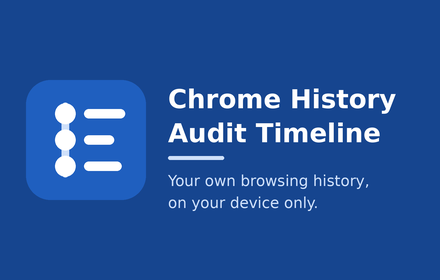
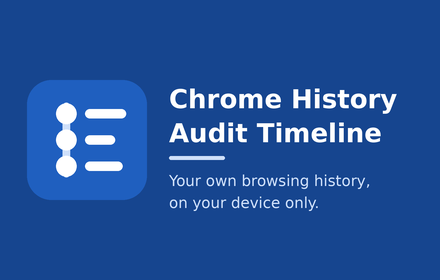
docs(store): add 1400x560 marquee from the same generator

diff --git a/extension/store/make-promo-tile.py b/extension/store/make-promo-tile.py
@@ -1,34 +1,36 @@
 #!/usr/bin/env python3
-"""Render the 440x280 Web Store small promo tile (RGB, no alpha). Usage: make-promo-tile.py OUT.png
-Needs Pillow and DejaVu Sans Bold (override with FONT_BOLD / FONT_REG). No network. The icon shapes mirror icon.svg."""
+"""Render the Web Store promo images from one design: promo-tile-440x280.png (small) and promo-marquee-1400x560.png (marquee), RGB, no alpha.
+Usage: make-promo-tile.py OUTDIR. Needs Pillow and DejaVu Sans (override with FONT_BOLD / FONT_REG). No network. Icon shapes mirror icon.svg."""
 import os, sys
 from PIL import Image, ImageDraw, ImageFont
 
 S = 4  # supersample factor
-W, H = 440, 280
 BG = (0x16, 0x45, 0x8f); LINE = (0xcf, 0xe0, 0xfa); WHITE = (255, 255, 255); ICONBG = (0x1f, 0x5f, 0xbf)
 BOLD = os.environ.get('FONT_BOLD', '/usr/share/fonts/truetype/dejavu/DejaVuSans-Bold.ttf')
 REG = os.environ.get('FONT_REG', '/usr/share/fonts/truetype/dejavu/DejaVuSans.ttf')
 
-img = Image.new('RGB', (W * S, H * S), BG)
-d = ImageDraw.Draw(img)
-def rr(x, y, w, h, r, c): d.rounded_rectangle([x * S, y * S, (x + w) * S - 1, (y + h) * S - 1], r * S, fill=c)
-def ci(cx, cy, r, c): d.ellipse([(cx - r) * S, (cy - r) * S, (cx + r) * S, (cy + r) * S], fill=c)
+def render(W, H, u, path):
+    """u = scale relative to the 440x280 layout; icon and text positions are laid out in 440x280 units, then centred."""
+    img = Image.new('RGB', (W * S, H * S), BG)
+    d = ImageDraw.Draw(img)
+    def rr(x, y, w, h, r, c): d.rounded_rectangle([x * S, y * S, (x + w) * S - 1, (y + h) * S - 1], r * S, fill=c)
+    def ci(cx, cy, r, c): d.ellipse([(cx - r) * S, (cy - r) * S, (cx + r) * S, (cy + r) * S], fill=c)
+    def font(p, px): return ImageFont.truetype(p, round(px * u * S))
+    # content block is 386 units wide (icon 120 + gap 22 + text 244) and 120 tall in 440x280 units
+    ox = (W - 386 * u) / 2; oy = (H - 120 * u) / 2
+    sz = 120 * u; k = sz / 128
+    rr(ox, oy, sz, sz, 26 * k, ICONBG)
+    rr(ox + 38 * k, oy + 24 * k, 8 * k, 80 * k, 4 * k, LINE)
+    for y in (36, 64, 92): ci(ox + 42 * k, oy + y * k, 11 * k, WHITE)
+    for y, w in ((31, 44), (59, 32), (87, 40)): rr(ox + 62 * k, oy + y * k, w * k, 10 * k, 5 * k, WHITE)
+    tx = ox + 142 * u
+    for i, line in enumerate(('Chrome History', 'Audit Timeline')):
+        d.text((tx * S, (oy + (4 + i * 34) * u) * S), line, font=font(BOLD, 26), fill=WHITE)
+    rr(tx, oy + 76 * u, 56 * u, 4 * u, 2 * u, LINE)
+    for i, line in enumerate(('Your own browsing history,', 'on your device only.')):
+        d.text((tx * S, (oy + (92 + i * 22) * u) * S), line, font=font(REG, 15), fill=LINE)
+    img.resize((W, H), Image.LANCZOS).save(path, 'PNG', optimize=True)
 
-# icon (128-unit grid from icon.svg) scaled to 120px at (26, 80)
-k = 120 / 128; ox, oy = 26, 80
-rr(ox, oy, 120, 120, 26 * k, ICONBG)
-rr(ox + 38 * k, oy + 24 * k, 8 * k, 80 * k, 4 * k, LINE)
-for y in (36, 64, 92): ci(ox + 42 * k, oy + y * k, 11 * k, WHITE)
-for y, w in ((31, 44), (59, 32), (87, 40)): rr(ox + 62 * k, oy + y * k, w * k, 10 * k, 5 * k, WHITE)
-
-def font(p, px): return ImageFont.truetype(p, px * S)
-tx = 168
-for i, line in enumerate(('Chrome History', 'Audit Timeline')):
-    d.text((tx * S, (84 + i * 34) * S), line, font=font(BOLD, 26), fill=WHITE)
-d.rounded_rectangle([tx * S, 156 * S, (tx + 56) * S, 160 * S - 1], 2 * S, fill=LINE)
-for i, line in enumerate(('Your own browsing history,', 'on your device only.')):
-    d.text((tx * S, (172 + i * 22) * S), line, font=font(REG, 15), fill=LINE)
-
-img = img.resize((W, H), Image.LANCZOS)
-img.save(sys.argv[1], 'PNG', optimize=True)
+out = sys.argv[1]; os.makedirs(out, exist_ok=True)
+render(440, 280, 1, os.path.join(out, 'promo-tile-440x280.png'))
+render(1400, 560, 2.6, os.path.join(out, 'promo-marquee-1400x560.png'))

diff --git a/extension/store/CHECKLIST.md b/extension/store/CHECKLIST.md
@@ -16,13 +16,13 @@ Status as of this branch: the package, assets and text are ready; **nothing has 
 - [ ] Register a Chrome Web Store developer account and pay the one-time registration fee (check the current amount in the dashboard); verify the account (2-step verification is required).
 - [ ] Publish `PRIVACY.md` at a public URL (for example its GitHub page on the default branch once merged) and enter that URL in the dashboard's Privacy tab. The store requires a URL, not a file.
 - [ ] Decide the publisher identity (individual or group) and the support contact shown on the listing. No personal names or emails are in this repository; add them in the dashboard only if you choose to.
-- [ ] Upload the zip from the release (check `sha256sum -c`), fill the Store listing and Privacy practices tabs from `LISTING.md`, upload icons/screenshots (store icon is `icons/icon-128.png`; the optional small promo tile 440x280 is `extension/store/promo-tile-440x280.png`, built by `make-promo-tile.py`).
+- [ ] Upload the zip from the release (check `sha256sum -c`), fill the Store listing and Privacy practices tabs from `LISTING.md`, upload icons/screenshots (store icon is `icons/icon-128.png`; the optional small promo tile 440x280 is `extension/store/promo-tile-440x280.png` and the marquee 1400x560 is `promo-marquee-1400x560.png`, both built by `make-promo-tile.py`).
 - [ ] Choose visibility (public, unlisted or private), regions and pricing (free).
 - [ ] Submit for review. Review of an extension that requests `history` can take longer and may ask questions; answer with the justification above. Expect to resubmit with a higher version number after any change (the manifest `version` must increase for each upload).
 - [ ] Test the uploaded package from the store (or the zip) on a real, branded Chrome profile and on ChromeOS if you want to claim it works there; only Chromium via automation has been tested so far.
 
 ## Not done / known gaps
-- No marquee image (the small promo tile exists; it is not part of the extension zip).
+- The small promo tile and marquee exist as images only; they are not part of the extension zip.
 - Not tested in branded Google Chrome (it ignores `--load-extension` automation); tested in Playwright's Chromium and by loading the unpacked zip contents.
 - Chromebook/ChromeOS behaviour and managed-device policy blocking are untested.
 - No Firefox/Edge listing; Edge accepts Chrome extensions via its own add-ons portal, not covered here.

diff --git a/extension/store/LISTING.md b/extension/store/LISTING.md
@@ -11,8 +11,8 @@ A local, read-only audit timeline of this profile's browsing history. Makes no n
 ## Category
 Productivity (alternatively: Privacy & Security, if offered as a category for your account)
 
-## Promo tile
-Optional small tile (440x280): `promo-tile-440x280.png`, generated by `make-promo-tile.py`; upload it in the dashboard, it is not shipped in the zip.
+## Promo images
+Optional small tile (440x280, `promo-tile-440x280.png`) and marquee (1400x560, `promo-marquee-1400x560.png`), both generated by `make-promo-tile.py`; upload them in the dashboard, they are not shipped in the zip.
 
 ## Single-purpose statement
 Show the user an audit timeline of their own browsing history, flagging potentially sensitive categories, entirely on their device.
